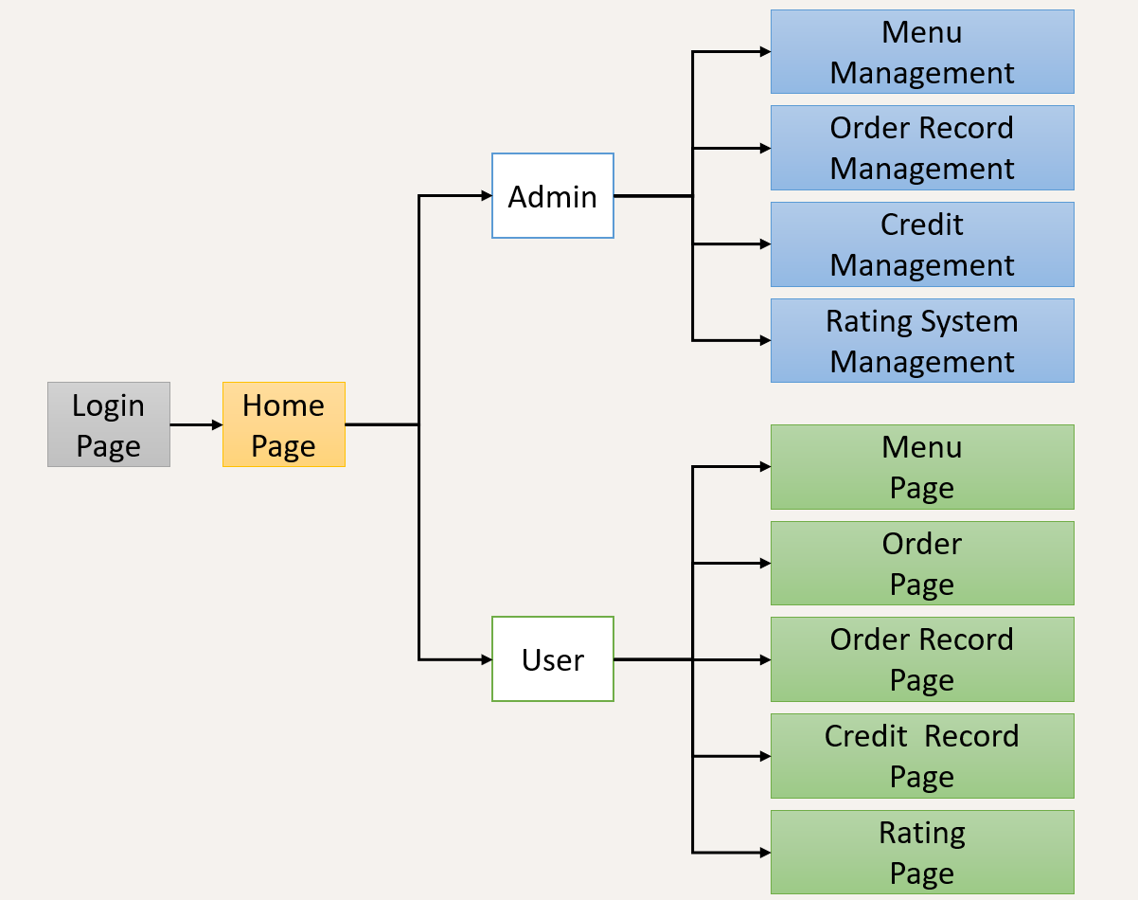
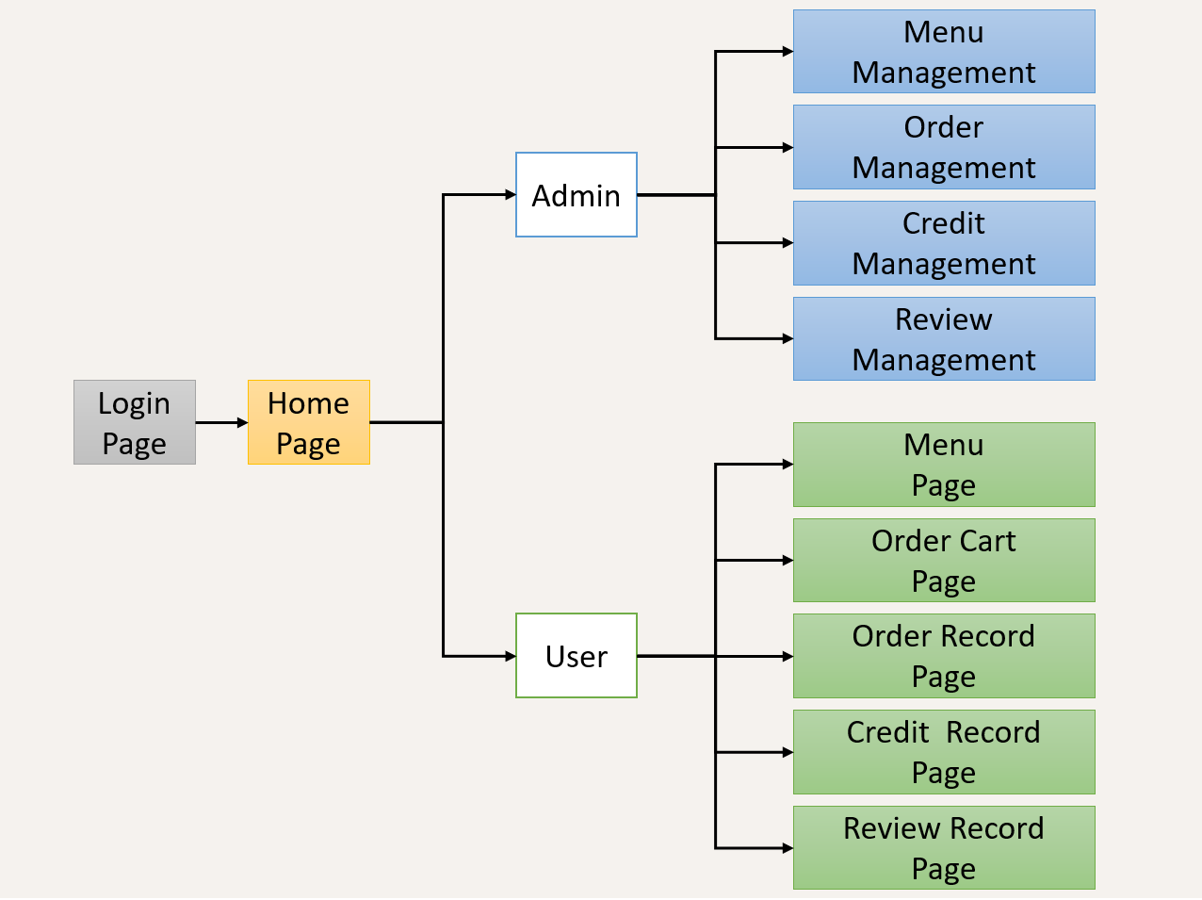
docs: update README.md

diff --git a/README.md b/README.md
@@ -10,24 +10,49 @@ npm run dev
 ```
 ![image](Docs/Images/frontend.png)
 
-### Share Pages
+Page View
+---
+### Share Pages View（Finished)
 - [x] Login Page (2024/05/23)
 - [x] Home Page (2024/05/23)
 
-### Admin Pages （Finished basic pages view）
+### Admin Pages View（Finished）
 - [x] Menu Management (2024/05/24)
-- [x] Order Record Management (2024/05/24)
+- [x] Order Management (2024/05/24)
 - [x] Credit Management (2024/05/24)
-- [x] Rating System Management (2024/05/24)
+- [x] Review Management (2024/05/24)
 
-### User Pages
+### User Pages View（Finished）
 - [x] Menu Page (2024/05/25)
 - [x] Order Cart Page (2024/05/25)
-- [ ] order Record Page
-- [ ] Credit Record Page
-- [ ] Rating Page
+- [x] Order Record Page (2024/05/26)
+- [x] Credit Record Page (2024/05/26)
+- [x] Review Record Page (2024/05/26)
 
- ### account
+Page Function
+---
+
+### Share Pages Function
+- [ ] Login Page 
+- [ ] Home Page
+
+### Admin Pages Function
+- [ ] Menu Management
+- [ ] Order Management
+- [ ] Credit Management
+- [ ] Review Management
+
+### User Pages Function
+- [ ] Menu Page 
+- [ ] Order Cart Page 
+- [ ] Order Record Page 
+- [ ] Credit Record Page 
+- [ ] Review Record Page 
+
+
+Other
+---
+### account
  - Admin
     - Email: admin@gmail.com
     - Pass: hello
@@ -40,92 +65,5 @@ npm run dev
    - 搞了整天的 route 還是沒看懂，因為 next.js 的 route 和 auth 都做在 SSR，下一次有空再用 route， 我先做其他 page
    - next.js 有些東西寫在 CSR 一些在 SSR，不是很好理解
    - 前後端分離的設計不是很適合
-
-## Getting started
-
-To make it easy for you to get started with GitLab, here's a list of recommended next steps.
-
-Already a pro? Just edit this README.md and make it your own. Want to make it easy? [Use the template at the bottom](#editing-this-readme)!
-
-## Add your files
-
-- [ ] [Create](https://docs.gitlab.com/ee/user/project/repository/web_editor.html#create-a-file) or [upload](https://docs.gitlab.com/ee/user/project/repository/web_editor.html#upload-a-file) files
-- [ ] [Add files using the command line](https://docs.gitlab.com/ee/gitlab-basics/add-file.html#add-a-file-using-the-command-line) or push an existing Git repository with the following command:
-
-```
-cd existing_repo
-git remote add origin https://gitlab.winfra.cs.nycu.edu.tw/112-cn/meal-provider-front-end.git
-git branch -M main
-git push -uf origin main
-```
-
-## Integrate with your tools
-
-- [ ] [Set up project integrations](https://gitlab.winfra.cs.nycu.edu.tw/112-cn/meal-provider-front-end/-/settings/integrations)
-
-## Collaborate with your team
-
-- [ ] [Invite team members and collaborators](https://docs.gitlab.com/ee/user/project/members/)
-- [ ] [Create a new merge request](https://docs.gitlab.com/ee/user/project/merge_requests/creating_merge_requests.html)
-- [ ] [Automatically close issues from merge requests](https://docs.gitlab.com/ee/user/project/issues/managing_issues.html#closing-issues-automatically)
-- [ ] [Enable merge request approvals](https://docs.gitlab.com/ee/user/project/merge_requests/approvals/)
-- [ ] [Automatically merge when pipeline succeeds](https://docs.gitlab.com/ee/user/project/merge_requests/merge_when_pipeline_succeeds.html)
-
-## Test and Deploy
-
-Use the built-in continuous integration in GitLab.
-
-- [ ] [Get started with GitLab CI/CD](https://docs.gitlab.com/ee/ci/quick_start/index.html)
-- [ ] [Analyze your code for known vulnerabilities with Static Application Security Testing(SAST)](https://docs.gitlab.com/ee/user/application_security/sast/)
-- [ ] [Deploy to Kubernetes, Amazon EC2, or Amazon ECS using Auto Deploy](https://docs.gitlab.com/ee/topics/autodevops/requirements.html)
-- [ ] [Use pull-based deployments for improved Kubernetes management](https://docs.gitlab.com/ee/user/clusters/agent/)
-- [ ] [Set up protected environments](https://docs.gitlab.com/ee/ci/environments/protected_environments.html)
-
-***
-
-# Editing this README
-
-When you're ready to make this README your own, just edit this file and use the handy template below (or feel free to structure it however you want - this is just a starting point!). Thank you to [makeareadme.com](https://www.makeareadme.com/) for this template.
-
-## Suggestions for a good README
-Every project is different, so consider which of these sections apply to yours. The sections used in the template are suggestions for most open source projects. Also keep in mind that while a README can be too long and detailed, too long is better than too short. If you think your README is too long, consider utilizing another form of documentation rather than cutting out information.
-
-## Name
-Choose a self-explaining name for your project.
-
-## Description
-Let people know what your project can do specifically. Provide context and add a link to any reference visitors might be unfamiliar with. A list of Features or a Background subsection can also be added here. If there are alternatives to your project, this is a good place to list differentiating factors.
-
-## Badges
-On some READMEs, you may see small images that convey metadata, such as whether or not all the tests are passing for the project. You can use Shields to add some to your README. Many services also have instructions for adding a badge.
-
-## Visuals
-Depending on what you are making, it can be a good idea to include screenshots or even a video (you'll frequently see GIFs rather than actual videos). Tools like ttygif can help, but check out Asciinema for a more sophisticated method.
-
-## Installation
-Within a particular ecosystem, there may be a common way of installing things, such as using Yarn, NuGet, or Homebrew. However, consider the possibility that whoever is reading your README is a novice and would like more guidance. Listing specific steps helps remove ambiguity and gets people to using your project as quickly as possible. If it only runs in a specific context like a particular programming language version or operating system or has dependencies that have to be installed manually, also add a Requirements subsection.
-
-## Usage
-Use examples liberally, and show the expected output if you can. It's helpful to have inline the smallest example of usage that you can demonstrate, while providing links to more sophisticated examples if they are too long to reasonably include in the README.
-
-## Support
-Tell people where they can go to for help. It can be any combination of an issue tracker, a chat room, an email address, etc.
-
-## Roadmap
-If you have ideas for releases in the future, it is a good idea to list them in the README.
-
-## Contributing
-State if you are open to contributions and what your requirements are for accepting them.
-
-For people who want to make changes to your project, it's helpful to have some documentation on how to get started. Perhaps there is a script that they should run or some environment variables that they need to set. Make these steps explicit. These instructions could also be useful to your future self.
-
-You can also document commands to lint the code or run tests. These steps help to ensure high code quality and reduce the likelihood that the changes inadvertently break something. Having instructions for running tests is especially helpful if it requires external setup, such as starting a Selenium server for testing in a browser.
-
-## Authors and acknowledgment
-Show your appreciation to those who have contributed to the project.
-
-## License
-For open source projects, say how it is licensed.
-
-## Project status
-If you have run out of energy or time for your project, put a note at the top of the README saying that development has slowed down or stopped completely. Someone may choose to fork your project or volunteer to step in as a maintainer or owner, allowing your project to keep going. You can also make an explicit request for maintainers.
+- 2024/05/26
+   - Template 的很多 button 都沒有功能，所以有用到的要自己去實作，template 就只是提供 UI
